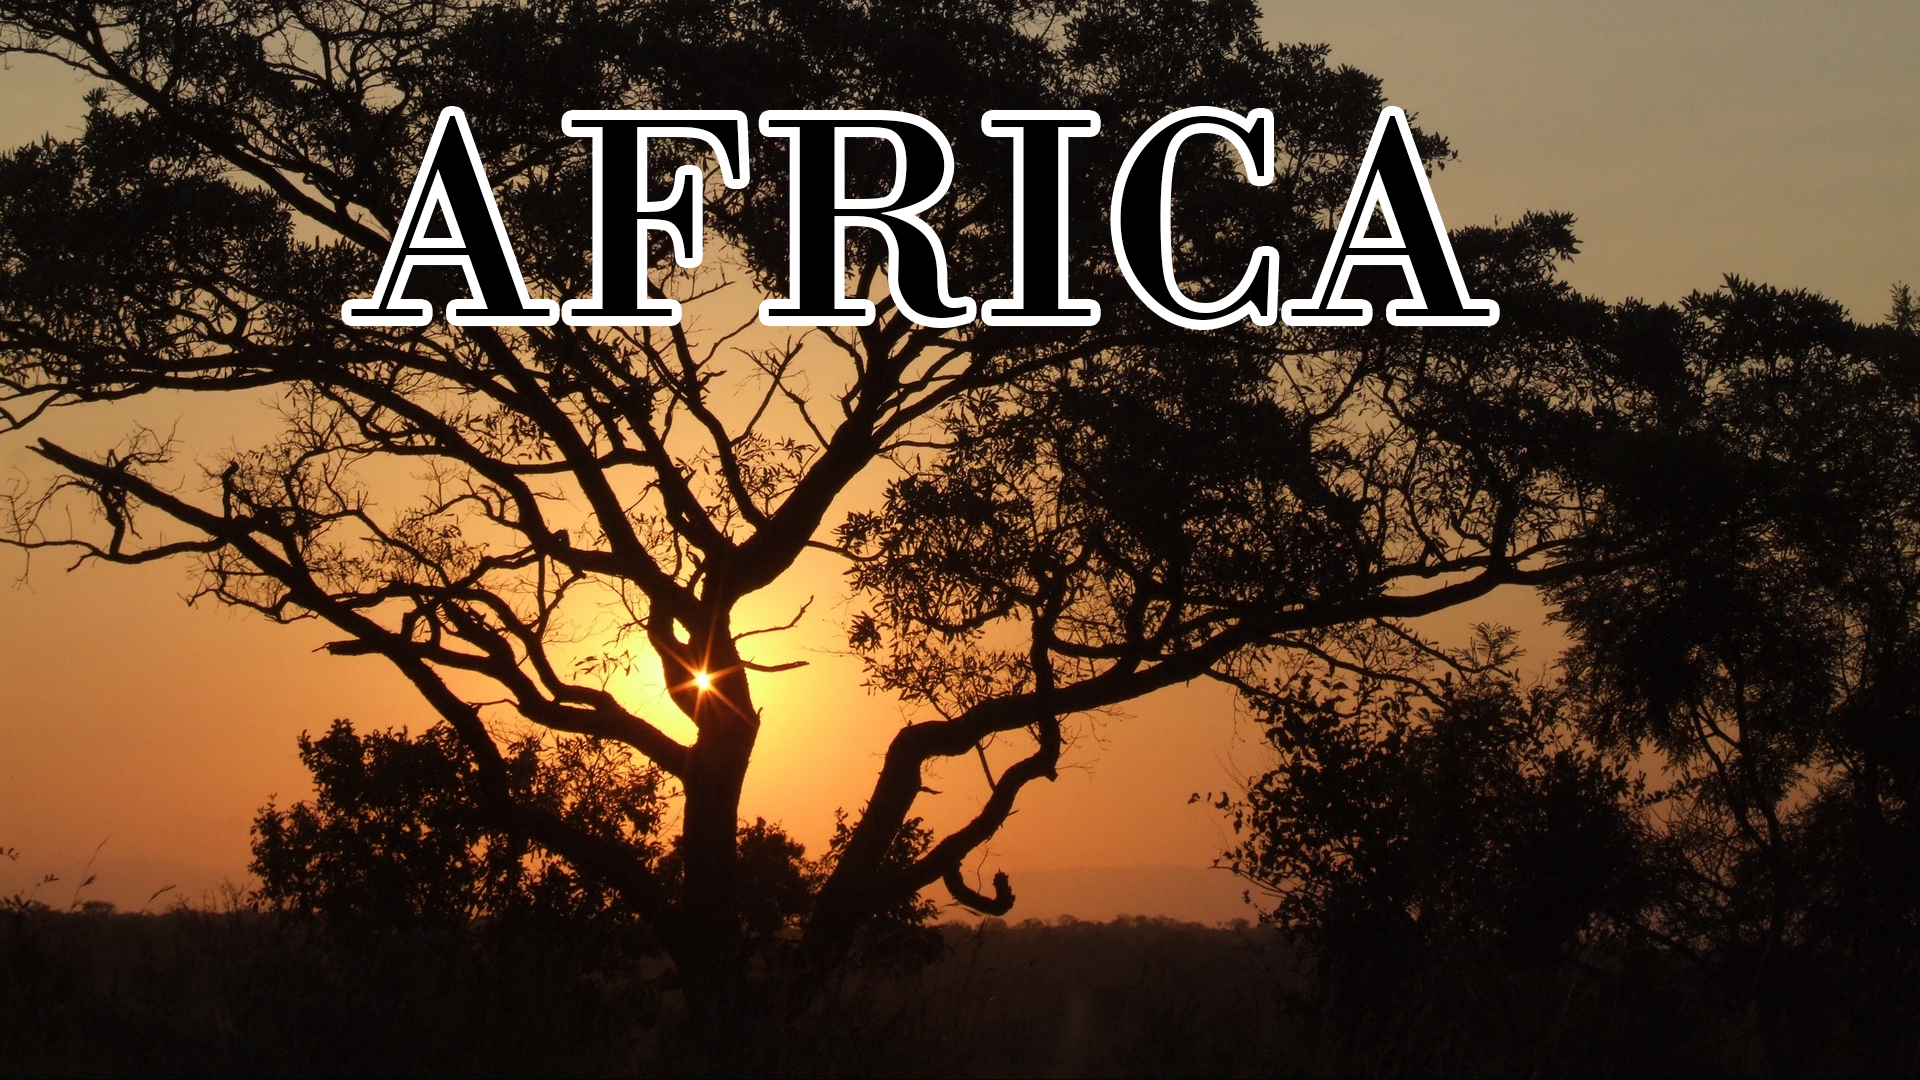
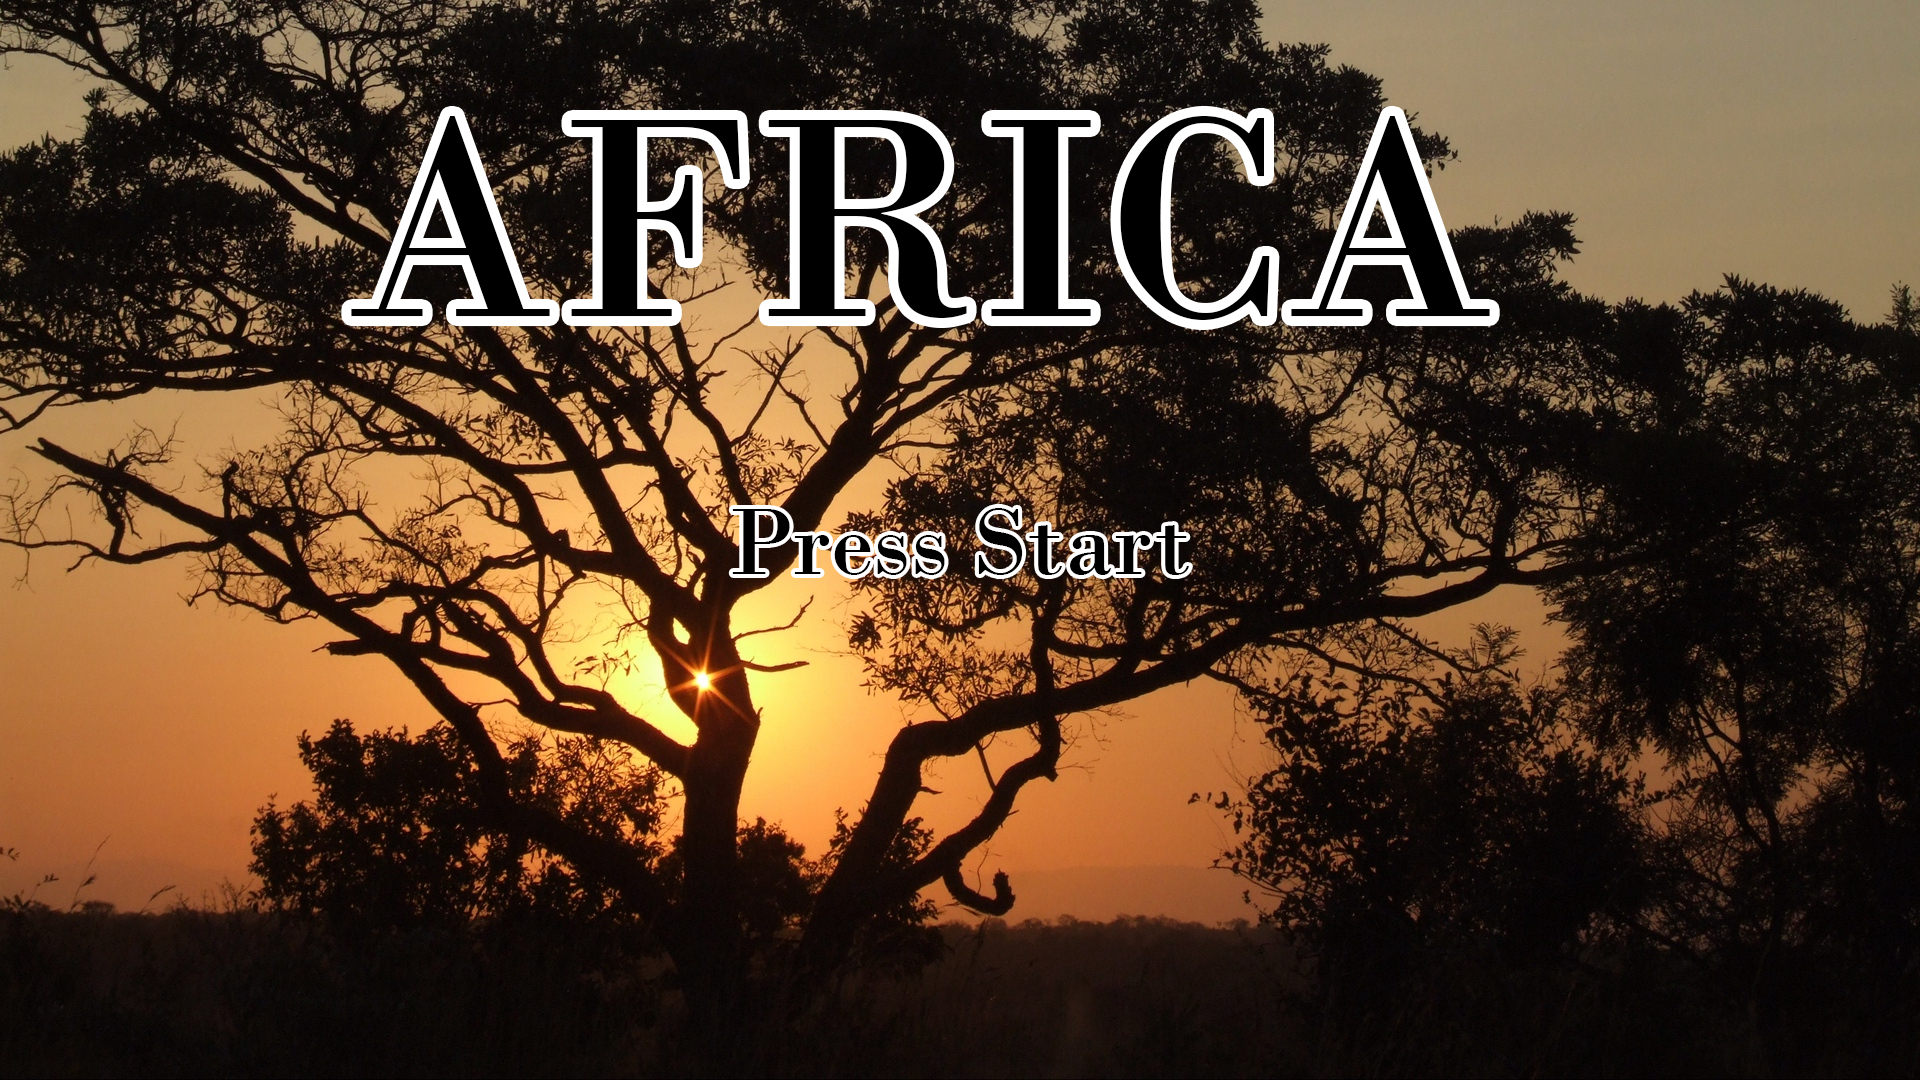
Cambiado el background del juego y el del menu

Changed region(s): [[0.375, 0.4583, 0.625, 0.55]]

diff --git a/core/src/com/mygdx/theafrica/Background.java b/core/src/com/mygdx/theafrica/Background.java
@@ -5,33 +5,30 @@ import com.badlogic.gdx.graphics.g2d.TextureRegion;
 
 public class Background extends GameObject {
 
-    public Background(LevelManager levelManager, float posX, float posY, float width, float height)
-    {
-        super(levelManager);
-        TextureRegion tr = Assets.getInstance().tiledBg;
+    public Background(float posX, float posY, float _width, float _height){
+        super();
         x=posX;
         y=posY;
-        this.width=width;
-        this.height=height;
+        this.width=_width;
+        this.height=_height;
+
+        Assets.getInstance().bgWallTR = new TextureRegion(Assets.getInstance().bgWall);
+
     }
 
-    public void update(float delta)
-    {
-
-
-
+    @Override
+    public void draw(SpriteBatch batch) {
 
     }
 
     @Override
     public void draw(SpriteBatch batch, float staTime) {
-
+        batch.draw(Assets.getInstance().bgWallTR,x,y,width,height);
     }
 
-    public void draw(SpriteBatch batch)
-    {
+    @Override
+    public void update(float delta) {
 
-        batch.draw(Assets.getInstance().tiledBg,x,y,width,height);
     }
 
 

diff --git a/core/src/com/mygdx/theafrica/GOFactory.java b/core/src/com/mygdx/theafrica/GOFactory.java
@@ -44,12 +44,12 @@ public class GOFactory {
         return generatedBgMenu;
     }
 
-    public static BackgroundMenu generateBGWall(float x, float y, float width, float height)
+    public static Background generateBGWall(float x, float y, float width, float height)
     {
         float bgFactorWidth = Assets.getInstance().bgWall.getWidth() * 1/100f;
         float bgFactorHeight = Assets.getInstance().bgWall.getHeight() * 1/118f;
         Assets.getInstance().bgWallTR = new TextureRegion(Assets.getInstance().bgWall,(int)(bgFactorWidth*width),(int)(bgFactorHeight* height));
-        BackgroundMenu generatedBGWall= new BackgroundMenu(x,y,width,height);
+        Background generatedBGWall= new Background(x,y,width,height);
 
         return generatedBGWall;
     }

diff --git a/core/src/com/mygdx/theafrica/Assets.java b/core/src/com/mygdx/theafrica/Assets.java
@@ -57,6 +57,7 @@ public class Assets {
         //BACKGROUND---------------------------------------------------------------------------------------------------------------------
         bg = new Texture (Gdx.files.internal("bg.png"));
         bg.setWrap(Texture.TextureWrap.Repeat,Texture.TextureWrap.Repeat);
+
         float bgFactorWidth = bg.getWidth() * 1;        //this means that my Texture should cover 1 world unit width.
 
         float bgFactorHeight = bg.getHeight() * 1;   //this means that my Texture should cover 1 world unit height.

diff --git a/core/src/com/mygdx/theafrica/SCREEN_MENU.java b/core/src/com/mygdx/theafrica/SCREEN_MENU.java
@@ -3,6 +3,7 @@ package com.mygdx.theafrica;
 
 import com.badlogic.gdx.Gdx;
 import com.badlogic.gdx.Screen;
+import com.badlogic.gdx.controllers.Controllers;
 import com.badlogic.gdx.graphics.GL20;
 import com.badlogic.gdx.graphics.OrthographicCamera;
 import com.badlogic.gdx.graphics.g2d.BitmapFont;
@@ -45,6 +46,8 @@ public class SCREEN_MENU implements Screen {
                 game.setScreen(game.gameScreen);
             }
         };
+
+
         hud.add(b1);
 
         //

diff --git a/core/src/com/mygdx/theafrica/Grid.java b/core/src/com/mygdx/theafrica/Grid.java
@@ -1,6 +1,7 @@
 package com.mygdx.theafrica;
 
 import com.badlogic.gdx.graphics.g2d.SpriteBatch;
+import com.badlogic.gdx.graphics.glutils.ShapeRenderer;
 import com.badlogic.gdx.math.Vector2;
 
 public class Grid extends GameObject{
@@ -12,7 +13,7 @@ public class Grid extends GameObject{
 
     public Vector2[][] positions;
     public boolean[][] isOcuppied;
-
+    
     public Grid()
     {
         size = 4;

diff --git a/core/src/com/mygdx/theafrica/BackgroundMenu.java b/core/src/com/mygdx/theafrica/BackgroundMenu.java
@@ -12,7 +12,7 @@ public class BackgroundMenu extends GameObject{
         this.width=_width;
         this.height=_height;
 
-        Assets.getInstance().bgMenuTR = new TextureRegion(Assets.getInstance().bgMenu);//,(int)(bgFactorWidth*_width),(int)(bgFactorHeight* _height));
+        Assets.getInstance().bgMenuTR = new TextureRegion(Assets.getInstance().bgMenu);
 
     }
 

diff --git a/core/src/com/mygdx/theafrica/LevelManager.java b/core/src/com/mygdx/theafrica/LevelManager.java
@@ -13,8 +13,6 @@ import java.util.ArrayList;
 
 public class LevelManager {
 
-
-
     public ArrayList<Layer>Layers;
 
     public ArrayList<GameObject> toRemove;
@@ -26,7 +24,7 @@ public class LevelManager {
     public Background bg;
     public Grid grid;
 
-    public BackgroundMenu bgWall;
+    public Background bgWall;
 
     public CameraHelper helper;
 
